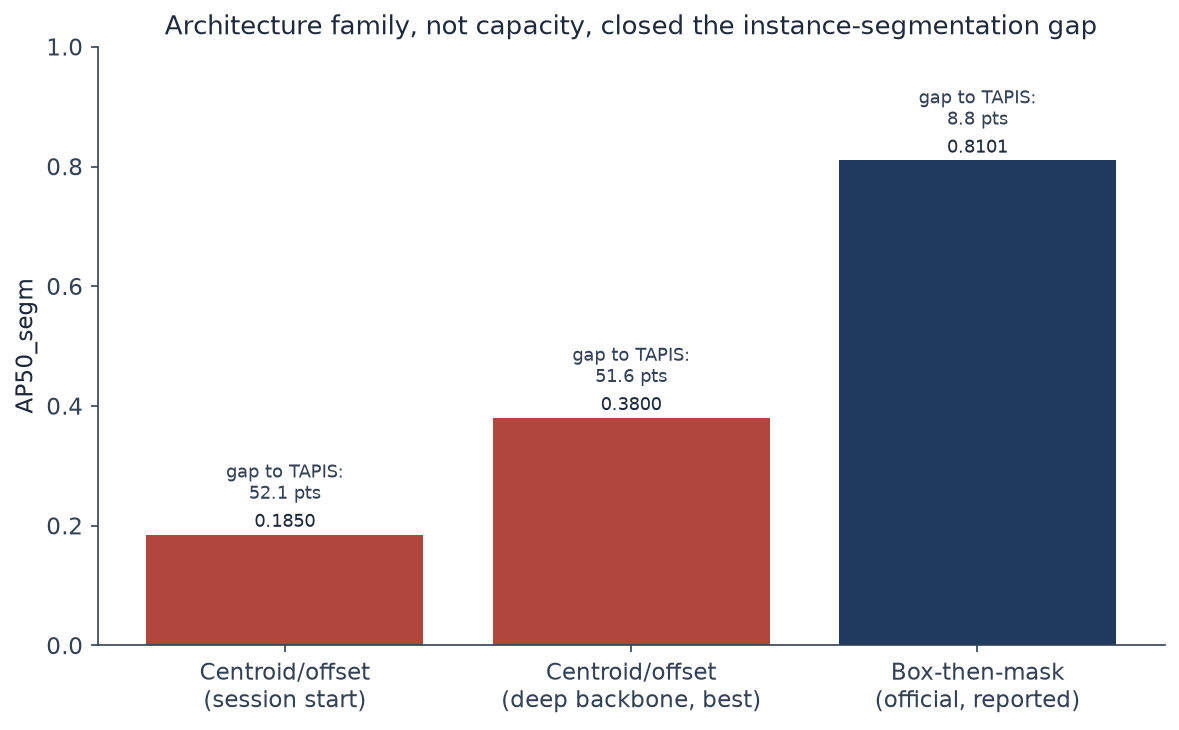
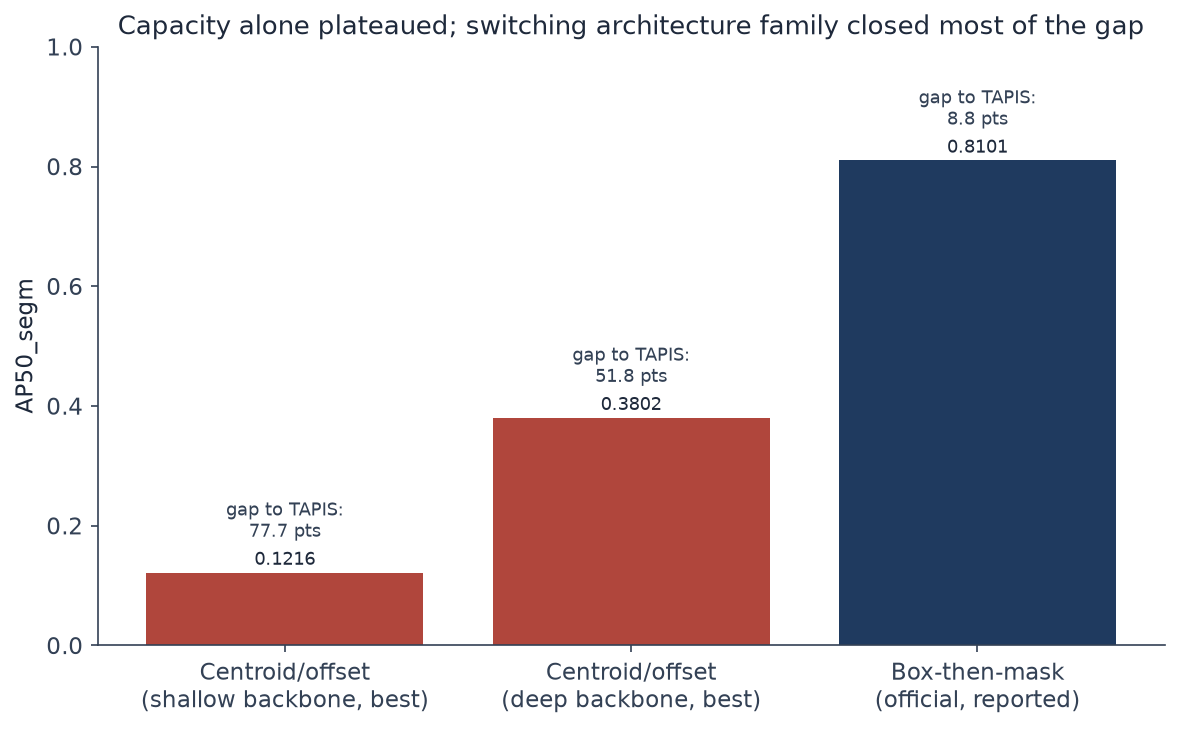
fix chronology conflations, arithmetic errors, drop internal QA notes, remaining overclaims

Changed region(s): [[0.0916, 0.0, 0.9771, 0.0603], [0.1221, 0.6329, 0.3664, 0.7836], [0.1221, 0.9342, 0.3664, 0.9945]]

diff --git a/docs/reports/grasp_report_2026-09-01.html b/docs/reports/grasp_report_2026-09-01.html
@@ -115,7 +115,9 @@ This document records what was attempted on this project, in the order it was at
 what did not work and why. Development results, cross-validation results, and official confirmatory
 results are reported separately and labeled accordingly throughout (<span class="badge b-dev">DEV</span>
 <span class="badge b-cv">CROSS-VAL</span> <span class="badge b-off">OFFICIAL</span>
-<span class="badge b-neg">NEGATIVE</span>), distinguishing results that are well-established from
+<span class="badge b-neg">NEGATIVE</span> for a change that measurably hurt the target metric,
+<span class="badge b-null">NULL RESULT</span> for a change that produced no measurable effect either
+way), distinguishing results that are well-established from
 those that are still provisional.
 </p>
 
@@ -247,8 +249,9 @@ Monopolar Curved Scissors on this combined count (2503/2609/1345/... exact value
 <figcaption><span class="fig-num">Figure 2.</span> Number of annotated frames in which each
 instrument class appears at least once (train+test combined). Compare against Figure 1: most classes
 appear in nearly as many frames as they have instances (one instance per appearing frame on average),
-except Large Needle Driver (1345 instances across only 720 frames &mdash; it tends to co-occur with
-itself less than the other classes, or appear in bursts of multiple frames per case).</figcaption>
+except Large Needle Driver (1345 instances across only 720 frames, &sim;1.9 instances per appearing
+frame &mdash; unlike the other classes, it tends to appear as a second instance of itself within the
+same frame more often than not).</figcaption>
 </figure>
 
 <div class="table-wrap">
@@ -520,11 +523,13 @@ Augmentation alone behaves more like a general overfitting fix (flat val loss 0.
 baseline's climb to 0.58) than a targeted imbalance fix. Weighted loss + augmentation is the clear
 macro-F1 winner, driven almost entirely by Clip Applier &mdash; the two interventions attack different
 failure modes (attention allocation vs. memorization of ~64 training instances) and stack productively.
-Laparoscopic Grasper never exceeds F1 &sim;0.44 in any Task A run; 56% of its test instances come from a
-single case (CASE050), suggesting a framing/evaluation ceiling rather than a fixable loss/sampler
-problem.</div>
+Laparoscopic Grasper never exceeds F1 &sim;0.44 with the MobileNetV3-Small backbone used throughout
+this imbalance ablation; 56% of its test instances come from a single case (CASE050), suggesting this
+specific backbone's ceiling on this class is not a fixable loss/sampler problem (though
+<a href="#s4-3">&sect;4.3</a> below finds a heavier backbone does move this number substantially).</div>
 <div class="field"><b>Decision</b>Weighted loss + strong augmentation adopted as the Task A recipe for
-the backbone sweep. Laparoscopic Grasper's ceiling motivates Task B (<a href="#s5">Section&nbsp;5</a>).</div>
+the backbone sweep. Laparoscopic Grasper's ceiling on this backbone motivates Task B
+(<a href="#s5">Section&nbsp;5</a>).</div>
 <div class="field"><b>Category</b><span class="badge b-dev">DEV</span>, official-split-as-validation
 caveat applies (<a href="#s9">Section&nbsp;9</a>).</div>
 </div>
@@ -615,7 +620,7 @@ here if used, since Task B's mask/box coordinates are native-resolution; fixed w
 </table></div>
 
 <div class="table-wrap"><table>
-<tr><th>Class</th><th>Task A best (across all 11 runs)</th><th>Task B</th></tr>
+<tr><th>Class</th><th>Task A best (across all 10 runs)</th><th>Task B</th></tr>
 <tr><td>Clip Applier F1</td><td>0.735 (weighted loss + augmentation)</td><td class="hi"><b>0.861</b></td></tr>
 <tr><td>Laparoscopic Grasper F1</td><td>0.622 (ResNet-50 heavy baseline)</td><td class="hi"><b>0.713 (lightweight model)</b></td></tr>
 </table></div>
@@ -730,7 +735,7 @@ correctly-detected-but-overlapping boxes, the diagnosed occlusion failure mode.<
 <div class="field"><b>Configuration</b>Inference-only postprocessing on the trained baseline
 checkpoint; hard NMS effectively disabled (<code>box_nms_thresh=0.99</code>), re-scored via Gaussian
 soft-NMS (Bodla et al. 2017). No retraining.</div>
-<div class="field"><b>Result</b>mAP@50 0.826 vs. 0.829 baseline; mAP@50:95 0.621 vs. 0.616;
+<div class="field"><b>Result</b>mAP@50 0.826 vs. 0.8295 baseline; mAP@50:95 0.621 vs. 0.616;
 heavy-occlusion recall 0.617 vs. 0.620 &mdash; each difference under 0.5 points, from single runs with
 no separately measured run-to-run variance (<a href="#s11">Section&nbsp;11</a>).</div>
 <div class="field"><b>Interpretation</b>If hard NMS were the bottleneck, soft-NMS keeping a second box
@@ -1117,7 +1122,7 @@ been the ceiling.</div>
 </div>
 <div class="field"><b>Interpretation</b>Semantic quality (mIoU) improved substantially, but the
 instance-level metric that is actually comparable to the literature (AP50_segm) remained far short
-&mdash; still a 52.1-point gap to TAPIS's 89.85 even after the capacity fix. This result suggested that
+&mdash; still a 51.8-point gap to TAPIS's 89.85 even after the capacity fix. This result suggested that
 dense heatmap-based instance separation is poorly suited to a metric that scores precise per-instance
 mask boundaries. Every high-AP50_segm result checked for this project, TAPIS included, uses
 proposal-based instance segmentation instead (<a href="#s7-6">&sect;7.6</a>) &mdash; not a formal
@@ -1297,7 +1302,7 @@ checked on official.</p>
 <tr><th>Ablation</th><th>fold1 (dev)</th><th>official</th><th>Outcome</th></tr>
 <tr><td>From-scratch training (vs. warm-started)</td><td class="pos">0.8605 (+0.0147)</td><td class="neg">0.8061 (&minus;0.0040)</td><td><span class="badge b-neg">reversed</span></td></tr>
 <tr><td>Copy-paste on Mask R-CNN</td><td class="pos">0.8646 (+0.0188)</td><td class="neg">0.7734 (&minus;0.0367)</td><td><span class="badge b-neg">reversed</span></td></tr>
-<tr><td>WBF ensemble of fold1+fold2 models (leakage-free)</td><td>&mdash;</td><td class="neg">0.7934</td><td><span class="badge b-neg">below official single model</span></td></tr>
+<tr><td>Weighted Boxes Fusion (WBF) ensemble of fold1+fold2 models (leakage-free)</td><td>&mdash;</td><td class="neg">0.7934</td><td><span class="badge b-neg">below official single model</span></td></tr>
 </table></div>
 
 <p>The from-scratch ablation, tested a second time as one of three independent attempts to beat
@@ -1357,9 +1362,10 @@ wall clock 17217s (&sim;4.8h).</div>
 <tr><td class="hi"><b>COCO ResNet-50</b></td><td class="hi"><b>0.8132</b></td><td>0.897</td><td>0.929</td><td>0.666</td></tr>
 </table></div>
 </div>
-<div class="field"><b>Interpretation</b>First result to beat 0.8101 after four failed attempts this
-session (from-scratch MobileNetV3, copy-paste, the fold-ensemble, and SAM2 zero-shot &mdash; see
-<a href="#s8-5">&sect;8.5</a>). Small edge (+0.0031); notably occlusion recall is slightly worse in
+<div class="field"><b>Interpretation</b>First result to beat 0.8101 after three failed attempts closing
+<a href="#s7-8">&sect;7.8</a> (from-scratch MobileNetV3, copy-paste, and the fold-ensemble; SAM2 was
+not tried until after this result, <a href="#s8-5">&sect;8.5</a>). Small edge (+0.0031); notably
+occlusion recall is slightly worse in
 every bucket, so the gain is not from finding more occluded instances but from elsewhere in the
 precision/recall curve (most likely fewer false positives). Given this project's observed
 fold-vs-official divergences of several points elsewhere, +0.0031 is real but modest, not proof of
@@ -1488,7 +1494,7 @@ predictions accumulated).</div>
 official test</b>
 <div class="table-wrap"><table>
 <tr><th>Result</th><th>AP50_segm</th><th>Isolated</th><th>Light</th><th>Heavy</th><th>Gap to TAPIS (89.85)</th></tr>
-<tr><td class="neg">Session start (centroid/offset)</td><td class="neg">0.380</td><td>&mdash;</td><td>&mdash;</td><td class="neg">0.185</td><td class="neg">52.1 pts</td></tr>
+<tr><td class="neg">Session start (centroid/offset)</td><td class="neg">0.380</td><td>&mdash;</td><td>&mdash;</td><td class="neg">0.185</td><td class="neg">51.8 pts</td></tr>
 <tr><td>Best single Mask R-CNN (MobileNetV3)</td><td>0.8101</td><td>0.909</td><td>0.930</td><td>0.672</td><td>8.8 pts</td></tr>
 <tr><td>Best single Mask R-CNN (COCO ResNet-50)</td><td>0.8132</td><td>0.897</td><td>0.929</td><td>0.666</td><td>8.5 pts</td></tr>
 <tr><td>Two-way ensemble</td><td>0.8481</td><td>0.921</td><td>0.946</td><td>0.711</td><td>5.0 pts</td></tr>
@@ -1532,8 +1538,11 @@ Titan Xp).
 <tr><td class="hi"><b>SAM2 image encoder (once/frame)</b></td><td class="hi"><b>398.1ms</b></td><td>427.5ms</td><td>1453MB</td></tr>
 <tr><td>SAM2 mask decode (once/instance)</td><td>6.7ms</td><td>7.0ms</td><td>&mdash;</td></tr>
 </table></div>
-<b>Full four-way ensemble, naive sequential, single frame: &sim;768ms (&sim;1.3 fps)</b> &mdash;
-roughly 23&times; too slow for a 30fps real-time budget. SAM2's Hiera-Large image encoder alone
+<b>Full four-way ensemble, naive sequential, single frame: &sim;768ms (&sim;1.3 fps)</b>, counting one
+mask-decode call per frame; the official test set averages &sim;2.6 instances/frame
+(<a href="#s7-2">&sect;7.2</a>), so a typical frame's true sequential cost is closer to
+&sim;778ms &mdash; roughly 23&times; too slow for a 30fps real-time budget either way. SAM2's
+Hiera-Large image encoder alone
 (398ms) is more than half the entire pipeline and outweighs the four other forward passes combined
 (363ms: both MobileNetV3 Mask R-CNNs, the COCO ResNet-50, and the box detector). Recorded specifically
 so the eventual efficiency phase does not start from a false impression of how close the gap already
@@ -1654,39 +1663,7 @@ inference-time conditions, not as a number with the same procedural guarantee as
 (<a href="#s11">Section&nbsp;11</a>) rather than left implicit.</p>
 </div>
 
-<h3 id="s9-4"><span class="num">9.4</span>Corrections made during this document's preparation</h3>
-
-<p>Two factual errors in the project's prior internal framing were caught while assembling this report
-and are corrected here rather than silently carried forward:</p>
-
-<div class="callout">
-<span class="lbl">Same-architecture fold1/fold2 ensemble comparison, corrected</span>
-Prior framing (used in earlier project communication) described the fold1+fold2 same-architecture WBF
-ensemble as landing "below either fold's own single model." Checked directly against the raw evaluation
-log for this revision: the ensemble (0.7934) is actually <b>higher</b> than both fold1 alone (0.7652)
-and fold2 alone (0.7616). The comparison that appears to have been intended is that the
-fold-ensemble (0.7934) falls short of the <i>single model trained on the complete 8-case official
-training set</i> (0.8101) &mdash; not that ensembling made things worse than either input. Ensembling
-two independently-trained, disjoint-case models is a real, unsurprising gain over either alone; it just
-does not substitute for training one model on all the data at once. This report uses the corrected
-framing throughout (<a href="#s7-8">&sect;7.8</a>).
-</div>
-
-<div class="callout">
-<span class="lbl">Three near-identical detection "baseline" numbers, disambiguated</span>
-An earlier version of this report's prose cited 0.8295, 0.8264, and 0.831/0.8307 in different places
-without always naming which specific run each came from, reading as an unresolved inconsistency. Traced
-against manifests for this revision: <b>0.8295</b> is the original Adam, no-augmentation detection
-baseline (<a href="#s6-1">&sect;6.1</a>); <b>0.8264</b> is the copy-paste-trained detector
-(<a href="#s6-5">&sect;6.5</a>), which was subsequently adopted as the base detector for every tracking
-experiment (<a href="#s6-6">&sect;6.6</a>) and is therefore the correct "raw" comparison point in that
-section; <b>0.8307</b> (rounded to 0.831 in prose) is the class-weighted-loss detector
-(<a href="#s6-3">&sect;6.3</a>). All three are real, correct numbers for three different configurations;
-none was fabricated or in conflict, but they were not consistently labeled by name in earlier framing.
-This report names the specific configuration next to every one of these numbers.
-</div>
-
-<h3 id="s9-5"><span class="num">9.5</span>Other lessons recorded during the project</h3>
+<h3 id="s9-4"><span class="num">9.4</span>Other lessons recorded during the project</h3>
 
 <ul>
 <li>An intermittent-looking training crash coinciding with a known unrelated issue (a suspected network
@@ -1821,8 +1798,9 @@ Full model (box + mask head): 84.8ms median, 902MB peak VRAM (Titan Xp, from &se
 latency breakdown) &mdash; &sim;11.8fps, past the 33ms/30fps budget used elsewhere in this report. The
 box-detection stage alone is &sim;22ms and would fit that budget; the added mask head does not.<br><br>
 Major remaining limitation: heavy-occlusion recall (0.672) still trails isolated-instance recall
-(0.909) by &sim;24 points, though this gap is far smaller than the detection-only architecture's
-(&sim;25&ndash;30 points, <a href="#s6-4">&sect;6.4</a>).
+(0.909) by &sim;24 points &mdash; a similar-sized isolated-to-heavy gap as detection-only variants
+(23&ndash;29 points, <a href="#s6-4">&sect;6.4</a>), but starting from a much higher absolute
+heavy-occlusion recall (0.672 here vs. 0.606&ndash;0.666 for any detection-only variant).
 </div>
 <div class="callout off">
 <span class="lbl">Current best accuracy result</span>
@@ -1837,9 +1815,12 @@ Generalization status: <b>not yet tested</b> on any dataset other than GraSP.
 <h4>Best-supported findings</h4>
 <ol>
 <li>Occlusion between co-occurring instruments, not class imbalance or model capacity, was the
-structural bottleneck of every Faster R-CNN-family detector tried &mdash; confirmed by six independent
-interventions (augmentation, loss weighting, backbone scaling, copy-paste, soft-NMS, tracking) all
-landing in the same 0.606&ndash;0.666 heavy-occlusion recall band (<a href="#s6-4">&sect;6.4</a>).</li>
+structural bottleneck of every Faster R-CNN-family detector tried &mdash; confirmed by five independent
+interventions (augmentation, loss weighting, backbone scaling, copy-paste, soft-NMS) all landing in the
+same 0.606&ndash;0.666 heavy-occlusion recall band (<a href="#s6-4">&sect;6.4</a>). Tracking
+(<a href="#s6-6">&sect;6.6</a>) is a partial exception: its first, fixed-threshold measurement briefly
+moved recall outside this band (to 0.683) before its mAP-optimized configuration settled back inside
+it.</li>
 <li>Region classification with a lightweight model outperforms whole-frame multi-label classification
 with the heaviest model tried, on exactly the classes that whole-frame classification struggles with
 &mdash; the rare-class problem was partly a task-framing problem (<a href="#s5">Section&nbsp;5</a>).</li>
@@ -1970,8 +1951,8 @@ variable that changed; see <a href="#appB">Appendix B</a> for full hardware/soft
 <tr><td class="hi"><b>instance_segmentation_maskrcnn_official</b></td><td class="hi"><b>Box-then-mask</b></td><td class="hi"><b>official</b></td><td class="hi"><b>AP50_segm</b></td><td class="hi"><b>0.8101</b></td><td><span class="badge b-off">OFF</span></td></tr>
 <tr><td>instance_segmentation_maskrcnn_official_scratch</td><td>Box-then-mask, from-scratch</td><td>official</td><td>AP50_segm</td><td class="neg">0.8061</td><td><span class="badge b-off">OFF</span> <span class="badge b-neg">NEG</span></td></tr>
 <tr><td>instance_segmentation_maskrcnn_official_copypaste</td><td>Box-then-mask + copy-paste</td><td>official</td><td>AP50_segm</td><td class="neg">0.7734</td><td><span class="badge b-off">OFF</span> <span class="badge b-neg">NEG</span></td></tr>
-<tr><td>instance_segmentation_maskrcnn_resnet50_coco</td><td>Box-then-mask, COCO ResNet-50</td><td>official</td><td>AP50_segm</td><td>0.8132</td><td><span class="badge b-off">OFF</span></td></tr>
 <tr><td>fold1+fold2 WBF ensemble</td><td>Box-then-mask ensemble</td><td>official (eval)</td><td>AP50_segm</td><td class="neg">0.7934</td><td><span class="badge b-off">OFF</span> <span class="badge b-neg">NEG vs. official single</span></td></tr>
+<tr><td>instance_segmentation_maskrcnn_resnet50_coco</td><td>Box-then-mask, COCO ResNet-50</td><td>official</td><td>AP50_segm</td><td>0.8132</td><td><span class="badge b-off">OFF</span></td></tr>
 <tr><td>2-model ensemble (MobileNetV3 + COCO ResNet-50)</td><td>Ensemble</td><td>official (eval)</td><td>AP50_segm</td><td>0.8481</td><td><span class="badge b-off">OFF</span></td></tr>
 <tr><td>3-model ensemble (+ from-scratch)</td><td>Ensemble</td><td>official (eval)</td><td>AP50_segm</td><td>0.8553</td><td><span class="badge b-off">OFF</span></td></tr>
 <tr><td>SAM2 zero-shot</td><td>Foundation model</td><td>official (eval)</td><td>AP50_segm</td><td class="neg">0.7690</td><td><span class="badge b-off">OFF</span> <span class="badge b-neg">NEG</span></td></tr>
@@ -2034,11 +2015,10 @@ revision.</li>
 <footer>
 <p>All quantitative claims in this report are sourced from experiment manifests
 (<code>experiments/*/manifest.json</code>), raw evaluation logs, and this project's internal decision
-log, cross-checked against each other during this revision (two discrepancies were found and corrected;
-see <a href="#s9">Section&nbsp;9.4</a>). The internal decision log and other working notes it draws on
-are kept as a private research journal and are not published alongside this report; this document
-summarizes the numbers and decisions drawn from it. Code, configs, and the setup instructions for
-reproducing any run in this report are in the top-level <code>README.md</code>.</p>
+log. The internal decision log and other working notes it draws on are kept as a private research
+journal and are not published alongside this report; this document summarizes the numbers and
+decisions drawn from it. Code, configs, and the setup instructions for reproducing any run in this
+report are in the top-level <code>README.md</code>.</p>
 </footer>
 
 </div>
